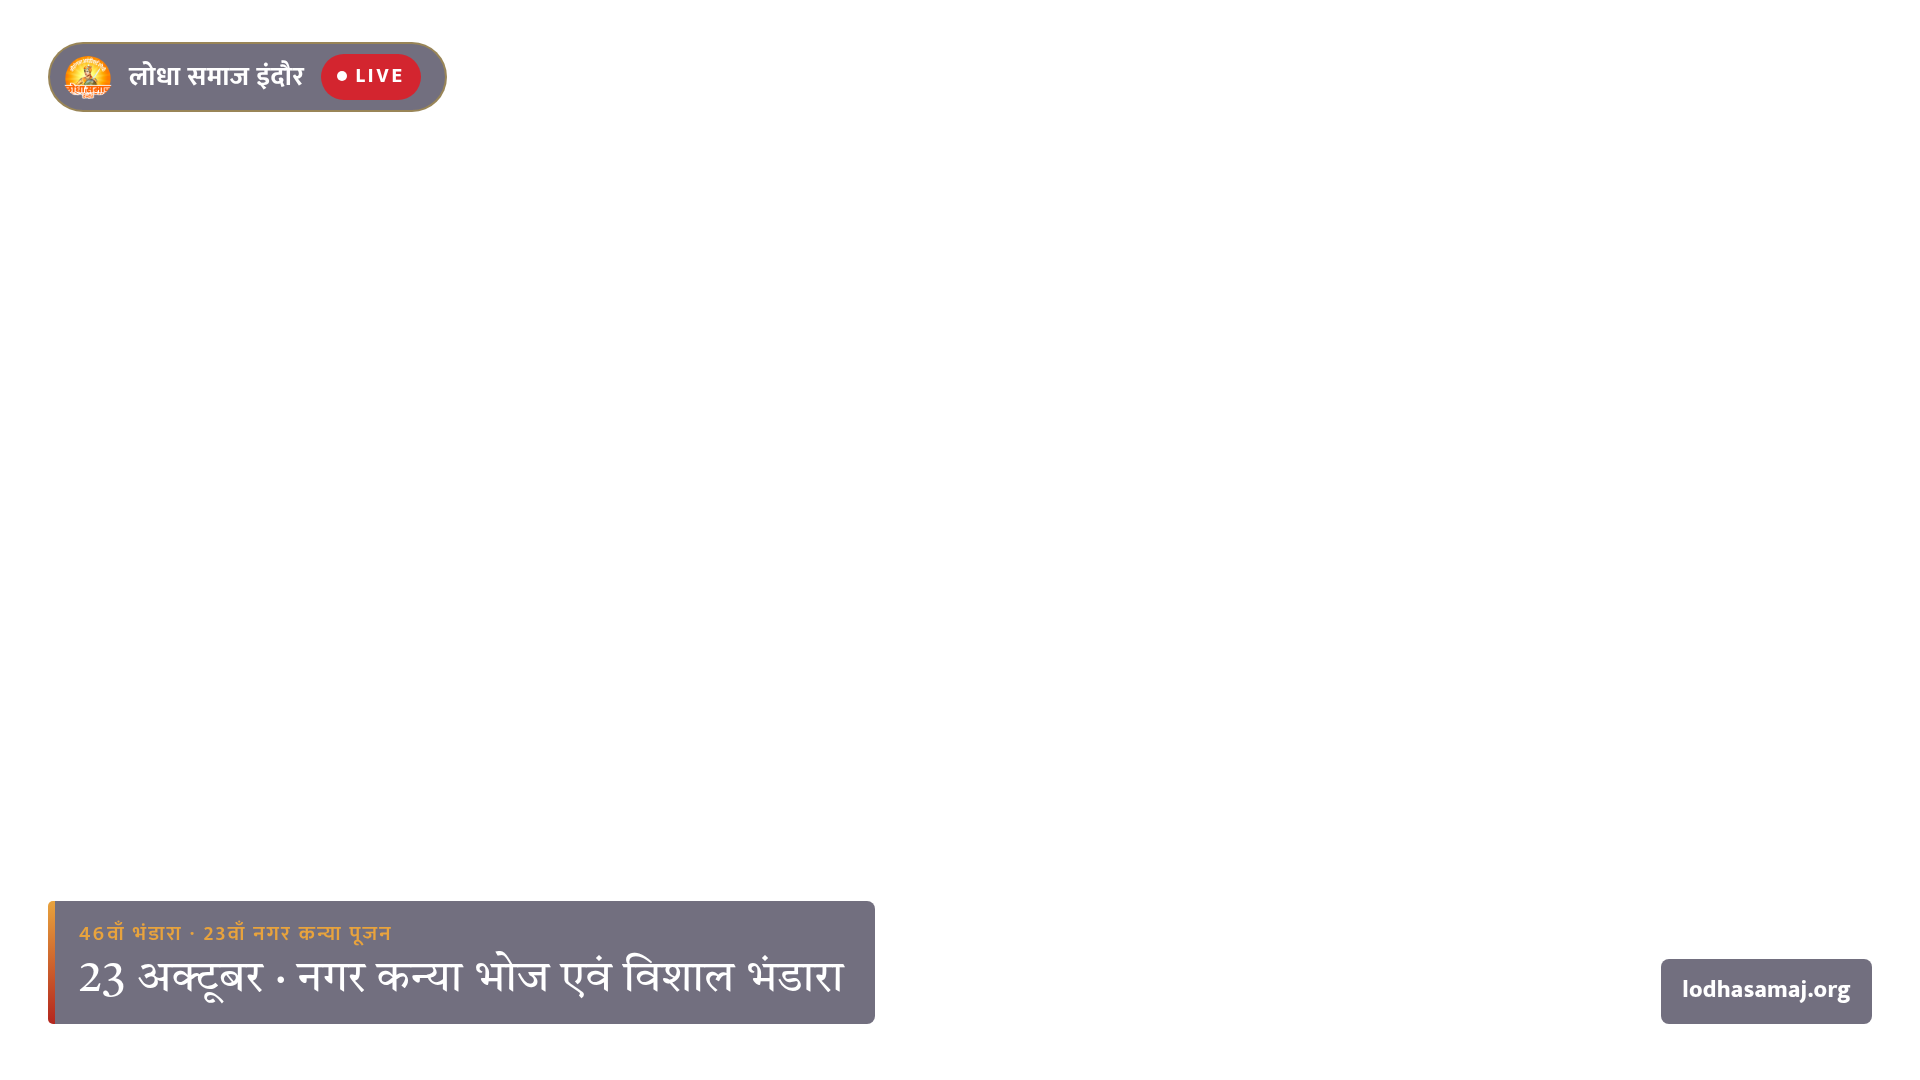
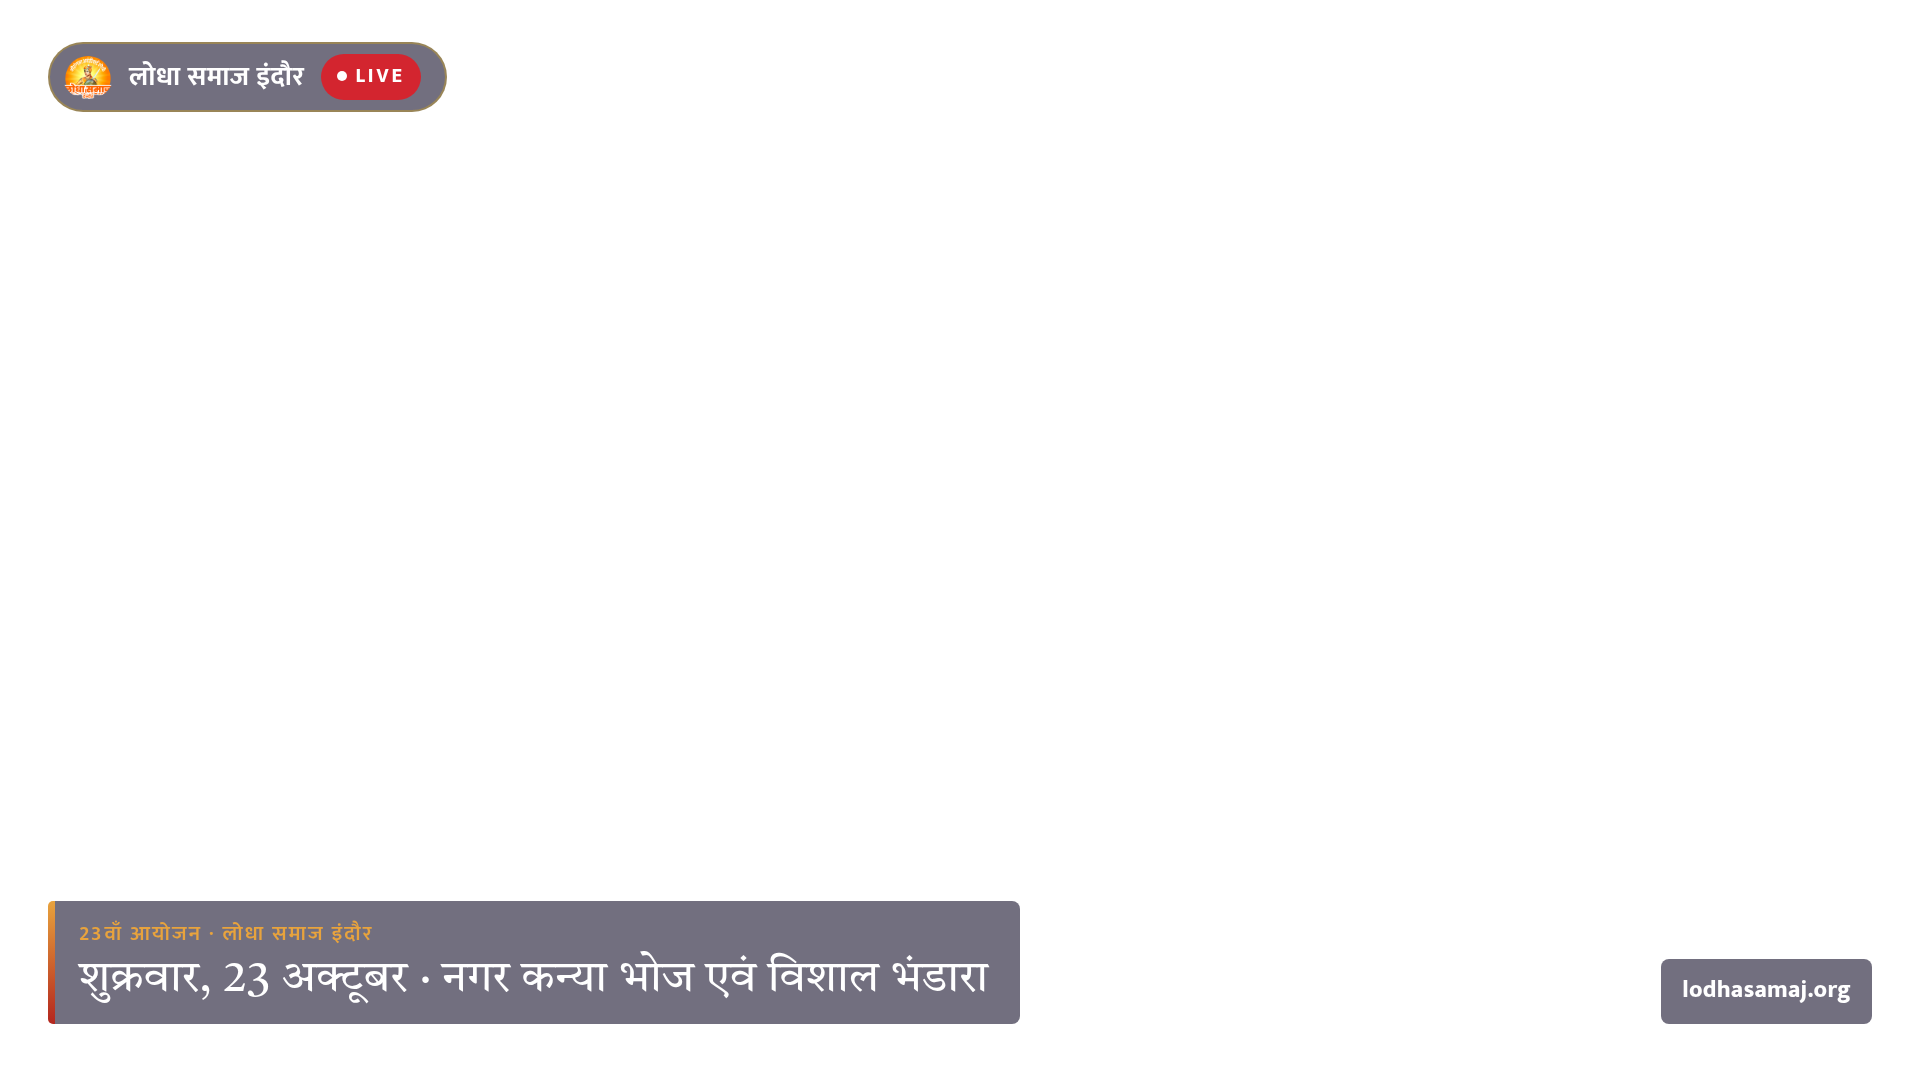
fix: भंडारे का समय, स्थान और गिनती निमंत्रण पत्र से
समाज का अपना निमंत्रण पत्र (assets/img/karyakram/bhandara-2026-nimantran.jpg)
पढ़कर तीन बातें सुधारी गईं:

  समय   महाआरती शाम 7 बजे, महाप्रसादी शाम 7:30 — सो कार्ड पर
        "शाम ७ बजे से", न कि केवल "शाम ७ बजे"।
  दिन   शुक्रवार, 23 अक्टूबर 2026।
  स्थान  लोधा कॉलोनी, महूनाका चौराहा, इंदौर — यह विवरण में गया।

गिनती पर दोनों स्रोत एक नहीं हैं: समाज की सूचना और होम पन्ना "46वां
विशाल भंडारा" कहते हैं, निमंत्रण पत्र "गरबा महोत्सव के 47 वें वर्ष तथा
23 वाँ नगर कन्या भोज एवं विशाल भण्डारा"। 23 पर दोनों एक हैं, सो कार्ड
पर "23वाँ आयोजन" ही छपा है और भंडारे का अपना अंक छोड़ दिया गया —
पीछे का बड़ा अंक भी ४६ से २३ कर दिया। REVIEW की टिप्पणी NIGHTS में है।

Changed region(s): [[0.0312, 0.825, 0.5312, 0.9472]]

diff --git a/tools/make_live_thumb.py b/tools/make_live_thumb.py
@@ -39,9 +39,16 @@ NIGHTS = [
      "bhog": ""},
     # नवरात्रि की रात नहीं, पर उसी महीने का आयोजन और उसी kit से बनता है।
     # समय शाम का है, रात्रि का नहीं, और नाम लंबा है - सो time और size।
-    {"slug": "bhandara", "num": "४६", "kicker": "46वाँ भंडारा · 23वाँ नगर कन्या पूजन",
-     "title": "नगर कन्या भोज\nएवं विशाल भंडारा", "day": "23 अक्टूबर",
-     "time": "शाम ७ बजे", "size": 64, "photo": "pratima-3.jpg", "bhog": ""},
+    #
+    # गिनती: समाज के निमंत्रण पत्र पर "23 वाँ नगर कन्या भोज एवं विशाल
+    # भण्डारा" छपा है, और events.json तथा समाज की सूचना भी कन्या पूजन को
+    # 23वाँ कहती है - सो कार्ड पर 23 ही जाता है। भंडारे की अपनी गिनती पर
+    # दोनों एक नहीं हैं (सूचना में 46वाँ भंडारा, पत्र में गरबा महोत्सव का
+    # 47वाँ वर्ष), इसलिए वह अंक कार्ड पर छापा नहीं जाता।
+    # <!-- REVIEW: भंडारा 46वाँ है या गरबा महोत्सव का 47वाँ वर्ष - समाज से। -->
+    {"slug": "bhandara", "num": "२३", "kicker": "23वाँ आयोजन · लोधा समाज इंदौर",
+     "title": "नगर कन्या भोज\nएवं विशाल भंडारा", "day": "शुक्रवार, 23 अक्टूबर",
+     "time": "शाम ७ बजे से", "size": 64, "photo": "pratima-3.jpg", "bhog": ""},
 ]
 
 CARD = """
@@ -102,18 +109,21 @@ def words(night) -> str:
         return f"""
    ── नगर कन्या भोज एवं विशाल भंडारा ─────────────────────
    thumbnail: thumb-bhandara-1280x720.jpg
-   शीर्षक  : LIVE | 46वाँ विशाल भंडारा एवं 23वाँ नगर कन्या पूजन | लोधा समाज इंदौर
+   शीर्षक  : LIVE | 23वाँ नगर कन्या भोज एवं विशाल भंडारा | लोधा समाज इंदौर
    विवरण   :
-नगर कन्या भोज एवं विशाल भंडारा का सीधा प्रसारण — 23 अक्टूबर 2026,
-शाम 7 बजे, महाराणा प्रताप चौराहा, महूनाका इंदौर।
+नगर कन्या भोज एवं विशाल भंडारा का सीधा प्रसारण —
+शुक्रवार, 23 अक्टूबर 2026।
 
-यह समाज का 46वाँ विशाल भंडारा और 23वाँ नगर कन्या पूजन है।
+महाआरती: शाम 7 बजे
+महाप्रसादी: शाम 7:30 बजे
+स्थान: लोधा कॉलोनी, महूनाका चौराहा, इंदौर
 
-आयोजक: लोधा समाज इंदौर · https://lodhasamaj.org
+आयोजक: लोधा समाज उत्सव समिति (सन् 1981) · लोधा समाज इंदौर
+वेबसाइट: https://lodhasamaj.org
 संपर्क: +91 90987 81740
 ॥ जय माता दी ॥
-   tags    : विशाल भंडारा, नगर कन्या भोज, कन्या पूजन, लोधा समाज इंदौर,
-             महूनाका, इंदौर, Bhandara, Kanya Bhoj, Indore
+   tags    : विशाल भंडारा, नगर कन्या भोज, कन्या पूजन, महाप्रसादी,
+             लोधा समाज इंदौर, महूनाका, इंदौर, Bhandara, Kanya Bhoj, Indore
 """
     if slug == "vijayadashami":
         return f"""
